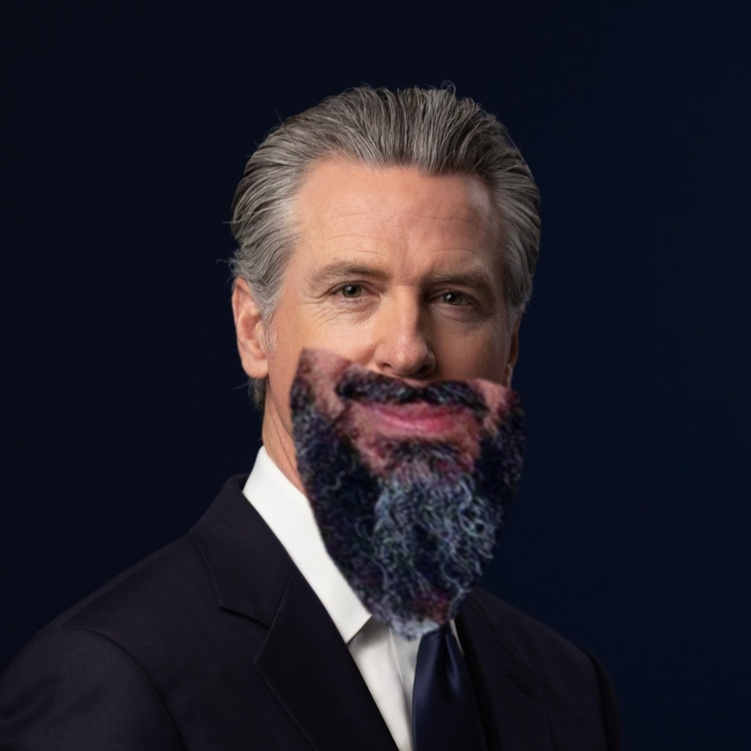
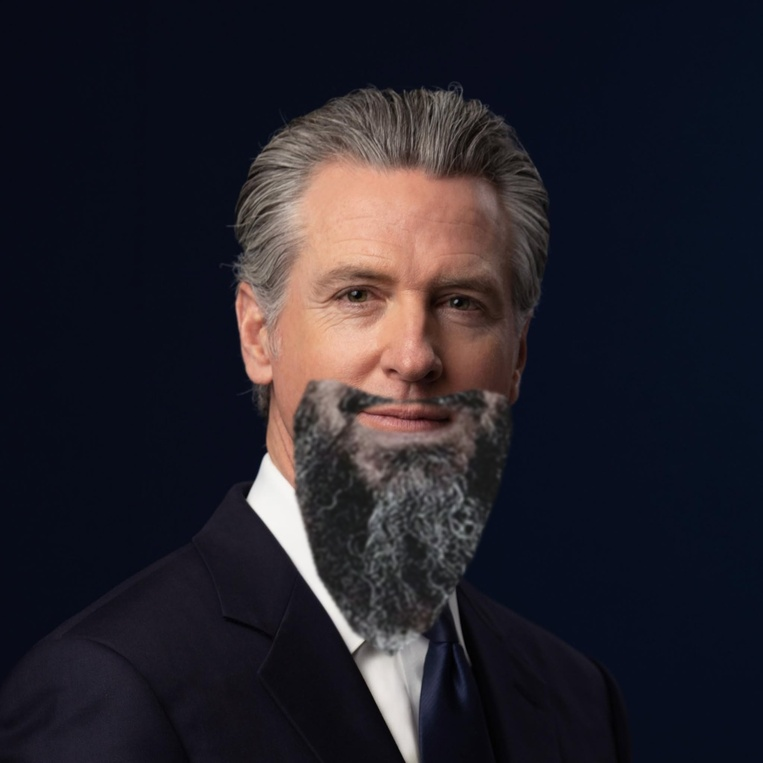
Project 2: improved beard transplant (similarity fit, lips hole, color match)

Changed region(s): [[0.3675, 0.4594, 0.7044, 0.8575]]

diff --git a/cs180_proj2/index.html b/cs180_proj2/index.html
@@ -625,7 +625,7 @@
           <tr><td>Manhattan above the clouds</td><td>1600×900</td><td>step (horizontal)</td><td>60%</td><td>9</td><td>256 px</td></tr>
           <tr><td>Launch into the Milky Way</td><td>1600×1067</td><td>hand-traced polygon</td><td>47%</td><td>8</td><td>128 px</td></tr>
           <tr><td>Mouth transplant</td><td>574×625</td><td>ellipse, warped with its photo</td><td>2%</td><td>5</td><td>12 px</td></tr>
-          <tr><td>Beard transplant</td><td>751×751</td><td>hand-traced polygon, warped with its photo</td><td>8%</td><td>4</td><td>6 px</td></tr>
+          <tr><td>Beard transplant</td><td>763×763</td><td>hand-traced polygon, warped with its photo</td><td>7%</td><td>4</td><td>6 px</td></tr>
           <tr><td>Dark City: the doctor in deep space</td><td>1379×1106</td><td>rough outline + GrabCut</td><td>57%</td><td>6</td><td>24 px</td></tr>
           <tr><td>Dark City: the night train under star trails</td><td>1920×814</td><td>rough outline + GrabCut</td><td>19%</td><td>6</td><td>24 px</td></tr>
         </tbody>
@@ -633,7 +633,7 @@
     </div>
     <p>Most of my masks needed more than a straight line:</p>
     <ol class="method-steps">
-      <li><strong>Face swaps.</strong> The mask has to stay on the face through alignment, so it is drawn on the source photo and warped along with it, carried as a fourth image channel through the same transform. Both swaps use the hybrids' three-point affine alignment (eyes plus mouth), so the pasted mouth and beard follow the head's tilt instead of hanging at an angle. I capped the upsampling of the lower-resolution face at 1.5× and blurred the old bin Laden scan with σ = 1, since its film grain otherwise came through as blue speckle.</li>
+      <li><strong>Face swaps.</strong> The mask has to stay on the face through alignment, so it is drawn on the source photo and warped along with it, carried as a fourth image channel through the same transform. The mouth swap uses the hybrids' three-point affine alignment (eyes plus mouth). For the beard, a rotation-and-scale-only (similarity) fit to the same three points works better: with three points the affine fit matches them exactly and spends its extra freedom on shear, slanting the face, while the similarity fit needs only a 4.6° turn. The beard mask also has a hole cut around Newsom's own lips, so only the mustache and beard come from bin Laden. I capped the upsampling of the lower-resolution face at 1.5×, blurred the old bin Laden scan with σ = 1 to remove film grain, and corrected its colors before blending (below).</li>
       <li><strong>Dark City.</strong> These masks have to follow a person's outline. I traced a rough polygon around the subject, and GrabCut (OpenCV's graph-cut segmentation) refined it to the real silhouette, including the hair, the sleeves, and the gap between the arm and the coat. Only then does the mask go into the stacks.</li>
     </ol>
     <div class="breakout">
@@ -661,9 +661,9 @@
       <h3>Irregular mask · Beard transplant</h3>
       <div class="media-grid compare-4">
         <figure><div class="figure-frame"><img loading="lazy" decoding="async" src="media/blend/newsom_beard/input_b.jpg" alt="Portrait of Gavin Newsom"></div><figcaption><strong>B:</strong> Newsom.</figcaption></figure>
-        <figure><div class="figure-frame"><img loading="lazy" decoding="async" src="media/blend/newsom_beard/input_a.jpg" alt="Portrait of Osama bin Laden aligned on the face midline"></div><figcaption><strong>A:</strong> bin Laden, affine-aligned to Newsom’s head tilt.</figcaption></figure>
-        <figure><div class="figure-frame"><img loading="lazy" decoding="async" src="media/blend/newsom_beard/mask.png" alt="Beard-shaped mask"></div><figcaption><strong>Mask:</strong> mustache, lips and beard, traced on A.</figcaption></figure>
-        <figure><div class="figure-frame"><img loading="lazy" decoding="async" src="media/blend/newsom_beard/result.jpg" alt="Newsom with bin Laden's beard"></div><figcaption><strong>Result.</strong> The beard hangs from his chin; it keeps a cool cast from the old scan.</figcaption></figure>
+        <figure><div class="figure-frame"><img loading="lazy" decoding="async" src="media/blend/newsom_beard/input_a.jpg" alt="Portrait of Osama bin Laden aligned on the face midline"></div><figcaption><strong>A:</strong> bin Laden, rotated and scaled to Newsom’s head, colors corrected.</figcaption></figure>
+        <figure><div class="figure-frame"><img loading="lazy" decoding="async" src="media/blend/newsom_beard/mask.png" alt="Beard-shaped mask"></div><figcaption><strong>Mask:</strong> mustache and beard traced on A, with a hole for Newsom’s lips.</figcaption></figure>
+        <figure><div class="figure-frame"><img loading="lazy" decoding="async" src="media/blend/newsom_beard/result.jpg" alt="Newsom with bin Laden's beard"></div><figcaption><strong>Result.</strong> Newsom keeps his own smile; the beard hangs from his chin.</figcaption></figure>
       </div>
       <h3>Irregular mask · Dark City: the doctor in deep space</h3>
       <div class="media-grid compare-4">
@@ -682,7 +682,7 @@
       <figure><div class="figure-frame"><img loading="lazy" decoding="async" src="media/blend/doctor_space/result.jpg" alt="The doctor in deep space, full size"></div><figcaption><strong>The doctor, full size.</strong></figcaption></figure>
       <figure><div class="figure-frame"><img loading="lazy" decoding="async" src="media/blend/train_space/result.jpg" alt="The night train under star trails, full size"></div><figcaption><strong>The night train, full size.</strong></figcaption></figure>
     </div>
-    <p>The beard shows the main limit of the method. Blending smooths the <em>transition</em> between two images at every scale, but it doesn't make their colors agree. The old scan's cool color balance survives inside the mask, because inside the mask the result simply <em>is</em> image A. Fixing that would require matching the colors first, for example by transferring the mean and spread of each color channel from B to A before blending.</p>
+    <p>The beard also shows the main limit of the method. Blending smooths the <em>transition</em> between two images at every scale, but it does not make their colors agree, because inside the mask the result simply <em>is</em> image A. The old scan had a strong cool cast and colored grain in the hair, so I corrected it before blending. I measured the average Lab color of matching skin patches on both faces (forehead and nose), shifted bin Laden's whole photo by the difference, and kept 35% of its chroma so the hair reads as neutral salt-and-pepper. Shifting only the averages, and not the contrast, keeps the beard dark. When I also matched the contrast, it washed out to a gray haze.</p>
 
     <h3>Laplacian stack of my favorite blend</h3>
     <p>This is the same breakdown as Burt &amp; Adelson's Figure 10, for the launch. Each row is one level from fine (top) to coarse, with the masked stars, the masked launch photo, and their sum. The last two rows are the remaining blurry level and the sum of all levels.</p>
@@ -711,7 +711,7 @@
           <tr><td>Manhattan above the clouds</td><td>0.1080 (2)</td><td>0.1018 (4)</td><td>0.0978 (9)</td><td>−9%</td></tr>
           <tr><td>Launch into the Milky Way</td><td>0.1021 (2)</td><td>0.0899 (4)</td><td>0.0774 (8)</td><td>−24%</td></tr>
           <tr><td>Mouth transplant</td><td>0.0641 (2)</td><td>0.0597 (4)</td><td>0.0590 (5)</td><td>−8%</td></tr>
-          <tr><td>Beard transplant</td><td>0.0527 (2)</td><td>0.0473 (4)</td><td></td><td>−10%</td></tr>
+          <tr><td>Beard transplant</td><td>0.0586 (2)</td><td>0.0530 (4)</td><td></td><td>−10%</td></tr>
           <tr><td>Dark City: the doctor in deep space</td><td>0.1223 (2)</td><td>0.1036 (4)</td><td>0.0943 (6)</td><td>−23%</td></tr>
           <tr><td>Dark City: the night train under star trails</td><td>0.0476 (2)</td><td>0.0447 (4)</td><td>0.0443 (6)</td><td>−7%</td></tr>
         </tbody>

diff --git a/cs180_proj2/tests/page_template.html b/cs180_proj2/tests/page_template.html
@@ -516,7 +516,7 @@
     </div>
     <p>Most of my masks needed more than a straight line:</p>
     <ol class="method-steps">
-      <li><strong>Face swaps.</strong> The mask has to stay on the face through alignment, so it is drawn on the source photo and warped along with it, carried as a fourth image channel through the same transform. Both swaps use the hybrids' three-point affine alignment (eyes plus mouth), so the pasted mouth and beard follow the head's tilt instead of hanging at an angle. I capped the upsampling of the lower-resolution face at 1.5× and blurred the old bin Laden scan with σ = 1, since its film grain otherwise came through as blue speckle.</li>
+      <li><strong>Face swaps.</strong> The mask has to stay on the face through alignment, so it is drawn on the source photo and warped along with it, carried as a fourth image channel through the same transform. The mouth swap uses the hybrids' three-point affine alignment (eyes plus mouth). For the beard, a rotation-and-scale-only (similarity) fit to the same three points works better: with three points the affine fit matches them exactly and spends its extra freedom on shear, slanting the face, while the similarity fit needs only a 4.6° turn. The beard mask also has a hole cut around Newsom's own lips, so only the mustache and beard come from bin Laden. I capped the upsampling of the lower-resolution face at 1.5×, blurred the old bin Laden scan with σ = 1 to remove film grain, and corrected its colors before blending (below).</li>
       <li><strong>Dark City.</strong> These masks have to follow a person's outline. I traced a rough polygon around the subject, and GrabCut (OpenCV's graph-cut segmentation) refined it to the real silhouette, including the hair, the sleeves, and the gap between the arm and the coat. Only then does the mask go into the stacks.</li>
     </ol>
     <div class="breakout">
@@ -544,9 +544,9 @@
       <h3>Irregular mask · Beard transplant</h3>
       <div class="media-grid compare-4">
         <figure><div class="figure-frame"><img src="media/blend/newsom_beard/input_b.jpg" alt="Portrait of Gavin Newsom"></div><figcaption><strong>B:</strong> Newsom.</figcaption></figure>
-        <figure><div class="figure-frame"><img src="media/blend/newsom_beard/input_a.jpg" alt="Portrait of Osama bin Laden aligned on the face midline"></div><figcaption><strong>A:</strong> bin Laden, affine-aligned to Newsom’s head tilt.</figcaption></figure>
-        <figure><div class="figure-frame"><img src="media/blend/newsom_beard/mask.png" alt="Beard-shaped mask"></div><figcaption><strong>Mask:</strong> mustache, lips and beard, traced on A.</figcaption></figure>
-        <figure><div class="figure-frame"><img src="media/blend/newsom_beard/result.jpg" alt="Newsom with bin Laden's beard"></div><figcaption><strong>Result.</strong> The beard hangs from his chin; it keeps a cool cast from the old scan.</figcaption></figure>
+        <figure><div class="figure-frame"><img src="media/blend/newsom_beard/input_a.jpg" alt="Portrait of Osama bin Laden aligned on the face midline"></div><figcaption><strong>A:</strong> bin Laden, rotated and scaled to Newsom’s head, colors corrected.</figcaption></figure>
+        <figure><div class="figure-frame"><img src="media/blend/newsom_beard/mask.png" alt="Beard-shaped mask"></div><figcaption><strong>Mask:</strong> mustache and beard traced on A, with a hole for Newsom’s lips.</figcaption></figure>
+        <figure><div class="figure-frame"><img src="media/blend/newsom_beard/result.jpg" alt="Newsom with bin Laden's beard"></div><figcaption><strong>Result.</strong> Newsom keeps his own smile; the beard hangs from his chin.</figcaption></figure>
       </div>
       <h3>Irregular mask · Dark City: the doctor in deep space</h3>
       <div class="media-grid compare-4">
@@ -565,7 +565,7 @@
       <figure><div class="figure-frame"><img src="media/blend/doctor_space/result.jpg" alt="The doctor in deep space, full size"></div><figcaption><strong>The doctor, full size.</strong></figcaption></figure>
       <figure><div class="figure-frame"><img src="media/blend/train_space/result.jpg" alt="The night train under star trails, full size"></div><figcaption><strong>The night train, full size.</strong></figcaption></figure>
     </div>
-    <p>The beard shows the main limit of the method. Blending smooths the <em>transition</em> between two images at every scale, but it doesn't make their colors agree. The old scan's cool color balance survives inside the mask, because inside the mask the result simply <em>is</em> image A. Fixing that would require matching the colors first, for example by transferring the mean and spread of each color channel from B to A before blending.</p>
+    <p>The beard also shows the main limit of the method. Blending smooths the <em>transition</em> between two images at every scale, but it does not make their colors agree, because inside the mask the result simply <em>is</em> image A. The old scan had a strong cool cast and colored grain in the hair, so I corrected it before blending. I measured the average Lab color of matching skin patches on both faces (forehead and nose), shifted bin Laden's whole photo by the difference, and kept 35% of its chroma so the hair reads as neutral salt-and-pepper. Shifting only the averages, and not the contrast, keeps the beard dark. When I also matched the contrast, it washed out to a gray haze.</p>
 
     <h3>Laplacian stack of my favorite blend</h3>
     <p>This is the same breakdown as Burt &amp; Adelson's Figure 10, for the launch. Each row is one level from fine (top) to coarse, with the masked stars, the masked launch photo, and their sum. The last two rows are the remaining blurry level and the sum of all levels.</p>

diff --git a/cs180_proj2/code/stacks.py b/cs180_proj2/code/stacks.py
@@ -96,15 +96,31 @@ def feather_blend(im_a, im_b, mask, sigma):
 
 # --------------------------------------------------------------- preprocessing
 
+def color_match(a, b, box_a, box_b, keep_chroma=1.0):
+    """Shift a's color cast and brightness to b's, measured on corresponding
+    patches (e.g. forehead skin) in Lab. Only the means move, so a keeps its own
+    contrast; keep_chroma < 1 then desaturates a (e.g. color noise in an old scan).
+    Boxes are (x0, y0, x1, y1) fractions of each photo."""
+    from skimage.color import rgb2lab, lab2rgb
+    la, lb = rgb2lab(a), rgb2lab(b)
+    def patch(lab, box):
+        x0, y0, x1, y1 = box
+        h, w = lab.shape[:2]
+        return lab[int(y0 * h):int(y1 * h), int(x0 * w):int(x1 * w)].reshape(-1, 3)
+    out = la - patch(la, box_a).mean(0) + patch(lb, box_b).mean(0)
+    out[..., 1:] *= keep_chroma
+    return np.clip(lab2rgb(out), 0, 1)
+
+
 def prepare_pair(entry, root='.', max_side=800):
     """Load a blend pair onto one canvas and build its mask.
 
     Image b sets the frame; image a is aligned to it with clicked points
-    (entry['points']) or center-cropped/resized. A mask spec with
-    "space": "a" or "b" is drawn on that original photo and warped along with it,
-    so a mask placed on a face stays on the face after alignment. Otherwise the
-    mask is drawn directly on the final canvas.
-    Returns (a, b, mask)."""
+    (entry['points']; entry['fit'] = 'affine' or 'similarity' for 3 points) or
+    center-cropped/resized. A mask spec with "space": "a" or "b" is drawn on that
+    original photo and warped along with it, so a mask placed on a face stays on
+    the face after alignment. entry['mask_hole'] is a second mask drawn on b and
+    removed from the first (e.g. keep b's own lips). Returns (a, b, mask)."""
     from imutils import load, fit_to
     from hybrid import align_pair, load_points
     root = Path(root)
@@ -117,23 +133,37 @@ def prepare_pair(entry, root='.', max_side=800):
         b = b[int(y0 * H):int(y1 * H), int(x0 * W):int(x1 * W)]
     if entry.get('pre_blur_a'):                  # e.g. remove film grain from an old scan
         a = gaussian_blur(a, entry['pre_blur_a'])
+    if entry.get('color_match'):
+        a = color_match(a, b, **entry['color_match'])
     spec = dict(entry['mask'])
     space = spec.pop('space', None)
+    hole = entry.get('mask_hole')
+    extra_a, extra_b = [], []                    # extra channels warped with each image
     if space == 'a':
-        a = np.dstack([a, make_mask(spec, a.shape, root)])
-    elif space == 'b':
-        b = np.dstack([b, make_mask(spec, b.shape, root)])
+        extra_a.append(make_mask(spec, a.shape, root, image=a))
+    if space == 'b':
+        extra_b.append(make_mask(spec, b.shape, root, image=b))
+    if hole:
+        extra_b.append(make_mask(hole, b.shape, root, image=b))
+    if extra_a:
+        a = np.dstack([a] + extra_a)
+    if extra_b:
+        b = np.dstack([b] + extra_b)
     if entry.get('points'):
         a, b, _ = align_pair(a, b, *load_points(root / entry['points'], a.shape, b.shape),
-                             max_upscale=entry.get('max_upscale'))
+                             max_upscale=entry.get('max_upscale'), fit=entry.get('fit', 'affine'))
     elif a.shape[:2] != b.shape[:2]:
         a = fit_to(a, b.shape[:2])
+    ea, eb = a[..., 3:], b[..., 3:]
+    a, b = a[..., :3], b[..., :3]
     if space == 'a':
-        a, mask = a[..., :3], a[..., 3]
+        mask = ea[..., 0]
     elif space == 'b':
-        b, mask = b[..., :3], b[..., 3]
+        mask = eb[..., 0]
     else:
         mask = make_mask(spec, a.shape, root, image=b)
+    if hole:
+        mask = mask * (1 - gaussian_blur(eb[..., -1], entry.get('hole_soften', 1.5)))
     return a, b, np.clip(mask, 0, 1)
 
 

diff --git a/cs180_proj2/code/hybrid.py b/cs180_proj2/code/hybrid.py
@@ -47,20 +47,33 @@ def _affine(P1, P2):
     return AffineTransform(matrix=M)
 
 
+def _similarity(P1, P2):
+    """Least-squares rotation + uniform scale + shift (no shear) taking P1 -> P2.
+    With 3 points it cannot hit all of them exactly, so it cannot slant a face
+    to absorb small clicking errors the way an affine fit does."""
+    A, y = [], []
+    for (x, yy), (u, v) in zip(P1, P2):
+        A += [[x, -yy, 1, 0], [yy, x, 0, 1]]
+        y += [u, v]
+    a, b, tx, ty = np.linalg.lstsq(np.array(A), np.array(y), rcond=None)[0]
+    return AffineTransform(matrix=np.array([[a, -b, tx], [b, a, ty], [0, 0, 1]]))
+
+
 def _resize_pts(im, P, f):
     h, w = im.shape[:2]
     nh, nw = max(1, int(round(h * f))), max(1, int(round(w * f)))
     return resize(im, (nh, nw)), P * np.array([nw / w, nh / h])
 
 
-def align_pair(im1, im2, P1, P2, max_upscale=None):
+def align_pair(im1, im2, P1, P2, max_upscale=None, fit='affine'):
     """Warp im1 onto im2's frame and crop both to the region valid in both.
 
     2 point pairs: the provided starter code (recenter -> rescale -> rotate).
       im1 is resized first so its point distance equals im2's; the starter's own
       rescale always shrinks the larger face, which would throw away resolution.
     3 point pairs: an affine warp (rotation, scale, shear) solved from the three
-      correspondences, which can also match a head turned differently.
+      correspondences, which can also match a head turned differently; or, with
+      fit='similarity', a least-squares rotation + scale only.
 
     im2 keeps its native resolution unless im1 would have to be upsampled by more
     than max_upscale, in which case im2 is reduced so the two stay comparable.
@@ -68,16 +81,17 @@ def align_pair(im1, im2, P1, P2, max_upscale=None):
     P1, P2 = np.asarray(P1, float), np.asarray(P2, float)
     n1, n2 = as_rgb(im1).shape[2], as_rgb(im2).shape[2]
     if len(P1) == 3:
-        t = _affine(P1, P2)
+        solve = _similarity if fit == 'similarity' else _affine
+        t = solve(P1, P2)
         scale = np.sqrt(abs(np.linalg.det(t.params[:2, :2])))
         if max_upscale and scale > max_upscale:
             im2, P2 = _resize_pts(im2, P2, max_upscale / scale)
-            t = _affine(P1, P2)
+            t = solve(P1, P2)
         n = max(n1, n2)
         a1 = warp(_with_validity(im1, n), t.inverse, output_shape=im2.shape[:2], order=3,
                   mode='constant', cval=0, preserve_range=True)
         a2 = _with_validity(im2, n)
-        info = {'method': 'affine (3 points)', 'rotation_deg': float(np.degrees(t.rotation)),
+        info = {'method': f'{fit} (3 points)', 'rotation_deg': float(np.degrees(t.rotation)),
                 'scale': float(np.sqrt(abs(np.linalg.det(t.params[:2, :2])))),
                 'shear_deg': float(np.degrees(t.shear))}
     else:

diff --git a/cs180_proj2/tests/make_masks.py b/cs180_proj2/tests/make_masks.py
@@ -25,16 +25,12 @@ POLYGONS = {
         [.368, .35], [.372, .45], [.39, .53], [.44, .55], [.455, .51], [.47, .55],
         [.53, .56], [.56, .50], [.59, .445], [.65, .44], [.72, .455], [.80, .45],
         [.88, .46], [.94, .49], [.98, .54], [1, .56], [1, 1]],
-    # the water surface of the puddle (slightly inside the wet edge)
-    'puddle_portal_mask': [
-        [.535, .725], [.581, .715], [.656, .712], [.731, .719], [.773, .733], [.816, .752],
-        [.855, .789], [.874, .835], [.869, .877], [.834, .900], [.763, .896], [.700, .886],
-        [.658, .867], [.622, .842], [.596, .806], [.565, .766]],
-    # mustache, lips and beard, drawn on the bin Laden photo (warped with it)
+    # mustache and beard, drawn on the bin Laden photo (warped with it); the cheek
+    # edge sits a little low and the right side is pulled in toward Newsom's jaw
     'newsom_beard_mask': [
-        [.445, .300], [.462, .298], [.489, .305], [.509, .307], [.529, .305], [.565, .297],
-        [.590, .300], [.595, .325], [.588, .360], [.572, .400], [.548, .438], [.517, .458],
-        [.490, .446], [.462, .416], [.442, .372], [.436, .330]],
+        [0.445, 0.308], [0.462, 0.306], [0.489, 0.313], [0.509, 0.315], [0.5277, 0.313], [0.5611, 0.305],
+        [0.5844, 0.308], [0.589, 0.325], [0.5825, 0.36], [0.5677, 0.4], [0.5453, 0.438], [0.5165, 0.458],
+        [0.49, 0.446], [0.462, 0.416], [0.442, 0.372], [0.436, 0.33]],
 }
 
 

diff --git a/cs180_proj2/README.md b/cs180_proj2/README.md
@@ -122,6 +122,7 @@ This writes `out/review_bundle.zip` (reduced copies of all figures, `results.jso
 - Stack level `k` has total blur `s0 * 2^(k-1)` (0 at level 0), so each level halves the bandwidth like a pyramid level would. Blending streams through the levels, so memory stays flat at full resolution.
 - Alignment: 2 point pairs use the starter code (similarity transform); 3 pairs (e.g. eyes + mouth) solve an affine transform. Either way the image being warped is resized first, so the reference image keeps its native resolution.
 - Masks: `step`, `ellipse`, `polygon`, `file`, or `grabcut` (a rough polygon refined to the subject's outline by OpenCV GrabCut). `"space": "a"` / `"b"` draws the mask on that source photo and warps it along with the alignment.
+- Blend options: `"fit": "similarity"` makes a 3-point alignment rotation + scale only; `"mask_hole"` removes a second mask drawn on image b (e.g. keep Newsom's own lips); `"color_match"` shifts image a's color cast and brightness to b's from two skin patches (Lab means) and can desaturate it (`keep_chroma`).
 
 ## Project webpage
 
